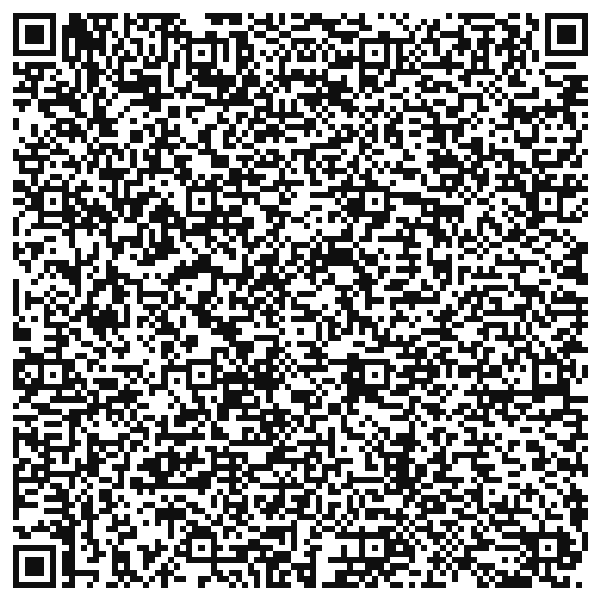
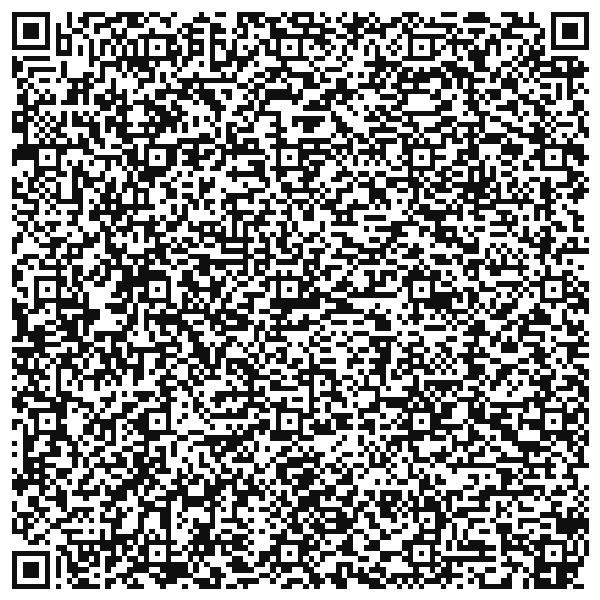
/jake: swap to Spencer's official AppsFlyer link (pid=jake-peters)
Spencer issued a fresh AppsFlyer link with new tracking fields
(adds af_ad=jake-peters-dashboard-link and af_siteid=jake-peters
on top of the standard pid/c/sub1-3/deep_link_sub1-3 set). The
new link uses pid=jake-peters (hyphenated) throughout, so it's
not a drop-in for the prior pid=jake URL.

Updated all 3 places per the affiliate template:
- nav-cta href
- hero appstore-pill href
- APP_STORE_URL JS constant (iOS redirect)

QR code regenerated to encode the new URL.

Heads-up for follow-up: Spencer's link sets
af_web_dp=https://pixsort.app/jake-peters/ but the page still
lives at /jake/. Desktop visitors hitting the raw AppsFlyer URL
would 302 to a 404 (edge case — most desktop traffic uses the
direct APP_STORE_DIRECT_URL bypass we set up earlier, not the
AppsFlyer link). Either rename dir to jake-peters OR ask Spencer
to update af_web_dp.

diff --git a/jake/index.html b/jake/index.html
@@ -505,13 +505,13 @@
     <img src="../assets/pixsort-logo.jpeg" alt="PixSort">
     <span>PixSort</span>
   </a>
-  <a class="nav-cta" href="https://app.appsflyer.com/id6760485464?pid=jake&c=jake-2026-05&af_channel=influencer&af_adset=jake-landing&af_ad=jake-page-cta&af_sub1=jake&af_sub2=jake-2026-05&af_sub3=pixsort-app-jake&deep_link_value=collab&deep_link_sub1=jake&deep_link_sub2=jake-2026-05&deep_link_sub3=pixsort-app-jake&af_dp=sortscout%3A%2F%2Fcollab%2Fjake%3Futm_source%3Djake%26utm_medium%3Dinfluencer%26utm_campaign%3Djake-2026-05%26click_id%3Dpixsort-app-jake&af_ios_url=https%3A%2F%2Fapps.apple.com%2Fus%2Fapp%2Fpixsort-ai-photo-organizer%2Fid6760485464&af_web_dp=https%3A%2F%2Fpixsort.app%2Fjake%2F&af_click_lookback=30d">Download Now</a>
+  <a class="nav-cta" href="https://app.appsflyer.com/id6760485464?pid=jake-peters&c=jake-peters-2026-05&af_channel=influencer&af_adset=jake-peters-landing&af_ad=jake-peters-dashboard-link&af_siteid=jake-peters&af_sub1=jake-peters&af_sub2=jake-peters-2026-05&af_sub3=pixsort-app-jake-peters&deep_link_value=collab&deep_link_sub1=jake-peters&deep_link_sub2=jake-peters-2026-05&deep_link_sub3=pixsort-app-jake-peters&af_dp=sortscout%3A%2F%2Fcollab%2Fjake-peters%3Futm_source%3Djake-peters%26utm_medium%3Dinfluencer%26utm_campaign%3Djake-peters-2026-05%26click_id%3Dpixsort-app-jake-peters&af_ios_url=https%3A%2F%2Fapps.apple.com%2Fus%2Fapp%2Fpixsort-ai-photo-organizer%2Fid6760485464&af_web_dp=https%3A%2F%2Fpixsort.app%2Fjake-peters%2F&af_click_lookback=30d">Download Now</a>
 </nav>
 
 <!-- ── Hero ─────────────────────────────────────────── -->
 <section class="hero" id="top">
   <div class="hero-text">
-    <a class="appstore-pill" href="https://app.appsflyer.com/id6760485464?pid=jake&c=jake-2026-05&af_channel=influencer&af_adset=jake-landing&af_ad=jake-page-cta&af_sub1=jake&af_sub2=jake-2026-05&af_sub3=pixsort-app-jake&deep_link_value=collab&deep_link_sub1=jake&deep_link_sub2=jake-2026-05&deep_link_sub3=pixsort-app-jake&af_dp=sortscout%3A%2F%2Fcollab%2Fjake%3Futm_source%3Djake%26utm_medium%3Dinfluencer%26utm_campaign%3Djake-2026-05%26click_id%3Dpixsort-app-jake&af_ios_url=https%3A%2F%2Fapps.apple.com%2Fus%2Fapp%2Fpixsort-ai-photo-organizer%2Fid6760485464&af_web_dp=https%3A%2F%2Fpixsort.app%2Fjake%2F&af_click_lookback=30d">
+    <a class="appstore-pill" href="https://app.appsflyer.com/id6760485464?pid=jake-peters&c=jake-peters-2026-05&af_channel=influencer&af_adset=jake-peters-landing&af_ad=jake-peters-dashboard-link&af_siteid=jake-peters&af_sub1=jake-peters&af_sub2=jake-peters-2026-05&af_sub3=pixsort-app-jake-peters&deep_link_value=collab&deep_link_sub1=jake-peters&deep_link_sub2=jake-peters-2026-05&deep_link_sub3=pixsort-app-jake-peters&af_dp=sortscout%3A%2F%2Fcollab%2Fjake-peters%3Futm_source%3Djake-peters%26utm_medium%3Dinfluencer%26utm_campaign%3Djake-peters-2026-05%26click_id%3Dpixsort-app-jake-peters&af_ios_url=https%3A%2F%2Fapps.apple.com%2Fus%2Fapp%2Fpixsort-ai-photo-organizer%2Fid6760485464&af_web_dp=https%3A%2F%2Fpixsort.app%2Fjake-peters%2F&af_click_lookback=30d">
       <svg class="apple-glyph" viewBox="0 0 384 512" fill="currentColor"><path d="M318.7 268.7c-.2-36.7 16.4-64.4 50-84.8-18.8-26.9-47.2-41.7-84.7-44.6-35.5-2.8-74.3 20.7-88.5 20.7-15 0-49.4-19.7-76.4-19.7C63.3 141.2 4 184.8 4 273.5q0 39.3 14.4 81.2c12.8 36.7 59 126.7 107.2 125.2 25.2-.6 43-17.9 75.8-17.9 31.8 0 48.3 17.9 76.4 17.9 48.6-.7 90.4-82.5 102.6-119.3-65.2-30.7-61.7-90-61.7-91.9zm-56.6-164.2c27.3-32.4 24.8-61.9 24-72.5-24.1 1.4-52 16.4-67.9 34.9-17.5 19.8-27.8 44.3-25.6 71.9 26.1 2 49.9-11.4 69.5-34.3z"/></svg>
       Available on the App Store
     </a>
@@ -979,7 +979,7 @@ mountPhone('phone-send',   <Phone dw={FEAT_DW} active="home"><Screen5/></Phone>)
 <!-- ── Interactions ──────────────────────────────────────── -->
 <script>
 const SCRIPT_URL = 'https://script.google.com/macros/s/AKfycbzc6k607rRZ2PlRKjGO7kjpuzGXLFiDiO7TjnXLmjBhkyZHhGELauQokFzLb2QNTq459A/exec';
-const APP_STORE_URL = 'https://app.appsflyer.com/id6760485464?pid=jake&c=jake-2026-05&af_channel=influencer&af_adset=jake-landing&af_ad=jake-page-cta&af_sub1=jake&af_sub2=jake-2026-05&af_sub3=pixsort-app-jake&deep_link_value=collab&deep_link_sub1=jake&deep_link_sub2=jake-2026-05&deep_link_sub3=pixsort-app-jake&af_dp=sortscout%3A%2F%2Fcollab%2Fjake%3Futm_source%3Djake%26utm_medium%3Dinfluencer%26utm_campaign%3Djake-2026-05%26click_id%3Dpixsort-app-jake&af_ios_url=https%3A%2F%2Fapps.apple.com%2Fus%2Fapp%2Fpixsort-ai-photo-organizer%2Fid6760485464&af_web_dp=https%3A%2F%2Fpixsort.app%2Fjake%2F&af_click_lookback=30d';
+const APP_STORE_URL = 'https://app.appsflyer.com/id6760485464?pid=jake-peters&c=jake-peters-2026-05&af_channel=influencer&af_adset=jake-peters-landing&af_ad=jake-peters-dashboard-link&af_siteid=jake-peters&af_sub1=jake-peters&af_sub2=jake-peters-2026-05&af_sub3=pixsort-app-jake-peters&deep_link_value=collab&deep_link_sub1=jake-peters&deep_link_sub2=jake-peters-2026-05&deep_link_sub3=pixsort-app-jake-peters&af_dp=sortscout%3A%2F%2Fcollab%2Fjake-peters%3Futm_source%3Djake-peters%26utm_medium%3Dinfluencer%26utm_campaign%3Djake-peters-2026-05%26click_id%3Dpixsort-app-jake-peters&af_ios_url=https%3A%2F%2Fapps.apple.com%2Fus%2Fapp%2Fpixsort-ai-photo-organizer%2Fid6760485464&af_web_dp=https%3A%2F%2Fpixsort.app%2Fjake-peters%2F&af_click_lookback=30d';
 const APP_STORE_DIRECT_URL = 'https://apps.apple.com/us/app/pixsort-ai-photo-organizer/id6760485464';
 
 function getSubmitMeta() {
